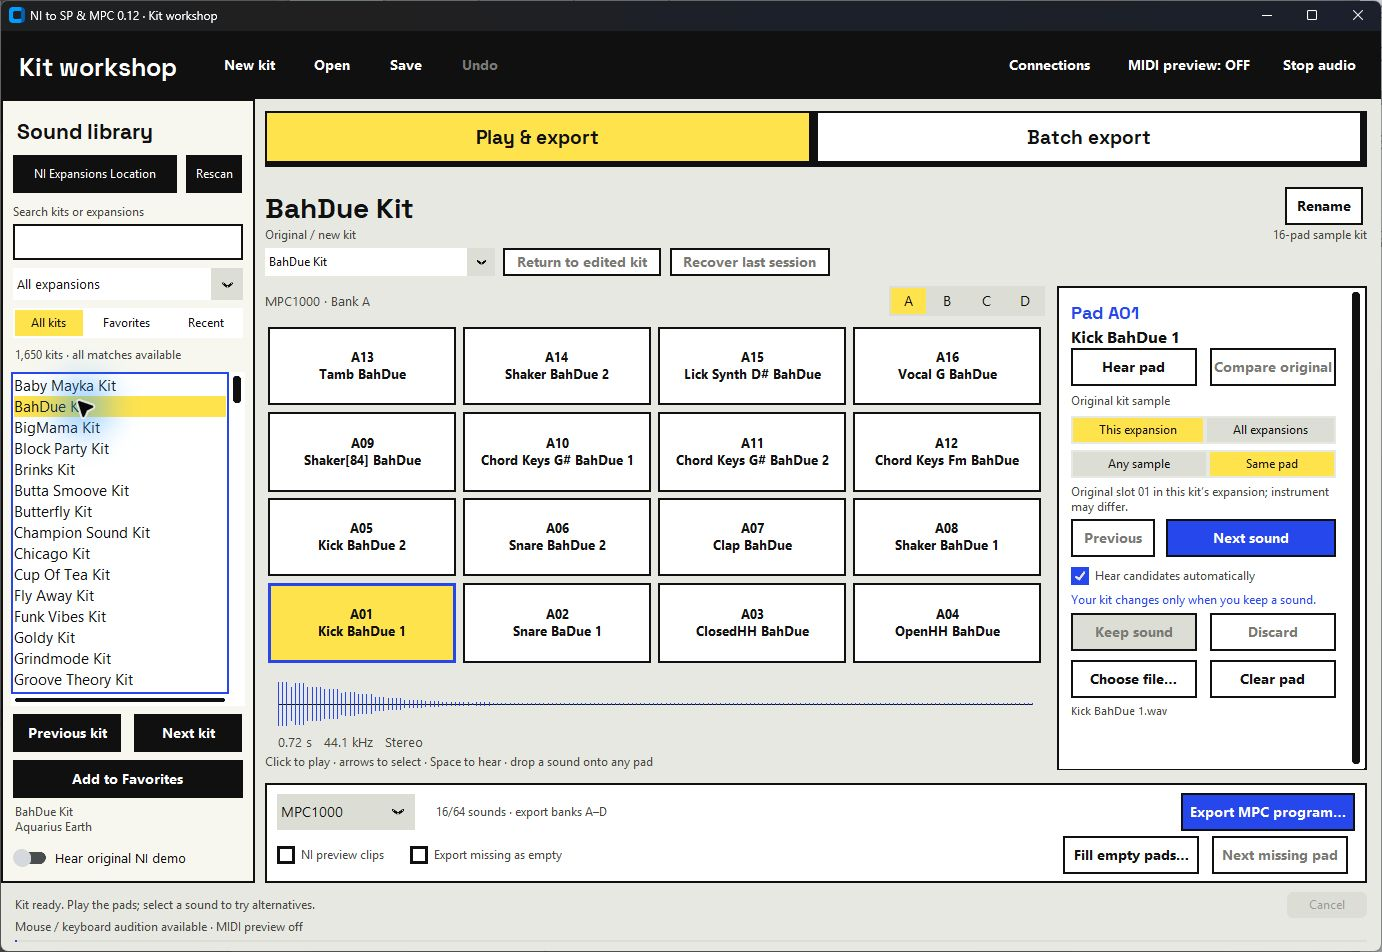
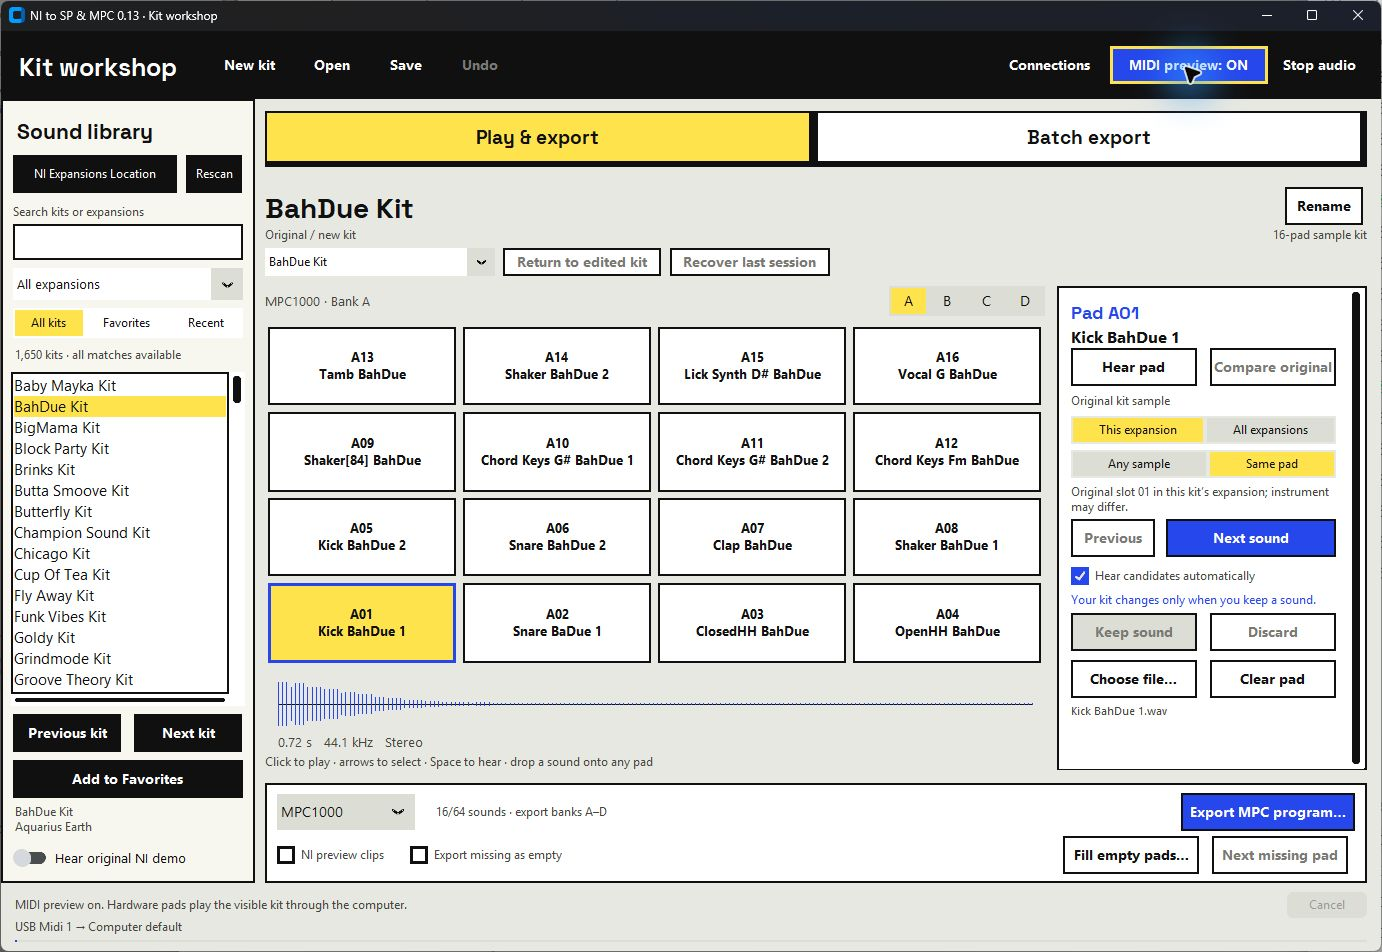
Support MPC MIDI-track pad preview with a separate chromatic preset

Changed region(s): [[0.0, 0.9443, 0.28, 1.0], [0.7779, 0.0305, 0.9334, 0.1218], [0.0311, 0.3655, 0.0933, 0.4569]]

diff --git a/tests/test_workbench.py b/tests/test_workbench.py
@@ -93,24 +93,26 @@ class WorkbenchTests(unittest.TestCase):
                 self.assertGreaterEqual(action.winfo_width(), 150)
 
     def test_connections_dialog_retains_the_mpc_mapping_and_channel_choices(self):
-        with patch('ni_to_sp.converter_ui.simple_audio_outputs', return_value=[]), \
-             patch('ni_to_sp.converter_ui.list_input_ports', return_value=['MPC interface']):
-            self.app.audio_settings()
-            wait(self.app)
-        window = next(w for w in self.app.winfo_children() if isinstance(w, ctk.CTkToplevel))
-        def descendants(widget):
-            for child in widget.winfo_children():
-                yield child
-                yield from descendants(child)
-        choices = [w for w in descendants(window) if isinstance(w, ctk.CTkOptionMenu)]
-        self.assertEqual(len(choices), 4)
-        choices[1].set('MPC interface')
-        choices[2].set('MPC1000 / JJOS3 · program pads')
-        choices[3].set('16')
-        save = next(w for w in descendants(window) if isinstance(w, ctk.CTkButton) and w.cget('text') == 'Save connections')
-        self.app.update()
-        self.assertLessEqual(save.winfo_rooty() + save.winfo_height(), window.winfo_rooty() + window.winfo_height())
-        save.invoke()
-        self.assertEqual(self.app.connection_settings['profile'], 'mpc1000')
-        self.assertEqual(self.app.connection_settings['channel'], 16)
-        self.assertEqual(self.app.connection_settings['midiInputName'], 'MPC interface')
+        for label, profile in [('MPC1000 / JJOS3 · program pads', 'mpc1000'),
+                               ('MPC1000 / JJOS3 · MIDI track', 'mpc_midi')]:
+            with patch('ni_to_sp.converter_ui.simple_audio_outputs', return_value=[]), \
+                 patch('ni_to_sp.converter_ui.list_input_ports', return_value=['MPC interface']):
+                self.app.audio_settings()
+                wait(self.app)
+            window = next(w for w in self.app.winfo_children() if isinstance(w, ctk.CTkToplevel))
+            def descendants(widget):
+                for child in widget.winfo_children():
+                    yield child
+                    yield from descendants(child)
+            choices = [w for w in descendants(window) if isinstance(w, ctk.CTkOptionMenu)]
+            self.assertEqual(len(choices), 4)
+            choices[1].set('MPC interface')
+            choices[2].set(label)
+            choices[3].set('16')
+            save = next(w for w in descendants(window) if isinstance(w, ctk.CTkButton) and w.cget('text') == 'Save connections')
+            self.app.update()
+            self.assertLessEqual(save.winfo_rooty() + save.winfo_height(), window.winfo_rooty() + window.winfo_height())
+            save.invoke()
+            self.assertEqual(self.app.connection_settings['profile'], profile)
+            self.assertEqual(self.app.connection_settings['channel'], 16)
+            self.assertEqual(self.app.connection_settings['midiInputName'], 'MPC interface')

diff --git a/ni_to_sp/converter_ui.py b/ni_to_sp/converter_ui.py
@@ -16,6 +16,7 @@ from .audio import simple_audio_outputs, audio_output_label
 from .mpc1000 import export_program
 
 PROFILE_LABELS = {'SP-404 Mode A': 'sp404_a', 'SP-404 Mode B': 'sp404_b',
+    'MPC1000 / JJOS3 · MIDI track': 'mpc_midi',
     'MPC1000 / JJOS3 · program pads': 'mpc1000',
     'MPC / controller · notes 36–51': 'linear', 'Custom · learned pads only': 'custom'}
 
@@ -329,7 +330,7 @@ class LegacyApp(BrowserApp):
         elif event.get('type') == 'unmapped':
             self.set_status(f"MIDI channel {event['channel']}, note {event['note']} received. " +
                 ('Load the MPC program note map in Connections, or use MIDI Learn.'
-                 if self.connection_settings.get('profile') == 'mpc1000'
+                 if self.connection_settings.get('profile') in {'mpc1000', 'mpc_midi'}
                  else 'For an MPC, choose MPC1000 / JJOS3 in Connections.'))
 
     def audio_settings(self):
@@ -401,11 +402,14 @@ class LegacyApp(BrowserApp):
             reset.pack(side='left', padx=10)
             def show_note_map(*_):
                 mpc = PROFILE_LABELS[profile.get()] == 'mpc1000'
-                note_label.configure(text=f'Pad notes: {pending_name}' if mpc else 'MPC program mapping is available with the MPC1000 profile.', text_color=T.MUTED)
+                midi_track = PROFILE_LABELS[profile.get()] == 'mpc_midi'
+                note_label.configure(text=f'Pad notes: {pending_name}' if mpc else
+                    'Pad notes: MIDI track · 36–99 across banks A–D' if midi_track else
+                    'MPC program mapping is available with the MPC1000 profile.', text_color=T.MUTED)
                 reset.configure(state='normal' if mpc else 'disabled')
             profile.trace_add('write', show_note_map)
             show_note_map()
-            T.label(form, 'SP: USB with PAD Note Out enabled.\nMPC: MIDI OUT → interface IN. All four hardware banks play the visible kit bank.\nUse a MIDI track with its output assigned. JJ mpc-ctl button input is a separate function.',
+            T.label(form, 'SP: USB with PAD Note Out enabled.\nMPC: MIDI OUT → interface IN. Set the track output to 1A for MIDI OUT A.\nChoose MIDI track for chromatic notes, or program pads for a drum program map.\nAll four hardware banks play the visible kit bank.',
                 13, T.MUTED, wraplength=600, justify='left').pack(anchor='w', padx=24, pady=(2, 12))
             def save():
                 self.disable_live_preview(quiet=True)

diff --git a/ni_to_sp/live_midi.py b/ni_to_sp/live_midi.py
@@ -30,7 +30,8 @@ DEFAULT_SETTINGS = {
     "cliPath": "",
     "port": "",
 }
-PROFILES = frozenset({"sp404_a", "sp404_b", "linear", "custom", "mpc1000"})
+PROFILES = frozenset({"sp404_a", "sp404_b", "linear", "custom", "mpc1000", "mpc_midi"})
+MPC_MIDI_NOTES = tuple(range(36, 100))
 MPC_A_NOTES = (37, 36, 42, 82, 40, 38, 46, 44, 48, 47, 45, 43, 49, 55, 51, 53)
 MPC_PAD_NOTES = MPC_A_NOTES + (
     54, 69, 81, 80, 65, 66, 76, 77, 56, 62, 63, 64, 73, 74, 71, 39,
@@ -362,9 +363,11 @@ class MIDIController:
                 else:
                     pad = self._mapping.get(f"{channel}:{note}", self._mapping.get(f"*:{note}"))
                     if pad is None and self.profile != "custom":
-                        default_pad = (self._mpc_notes.index(note - self.note_offset) % 16
-                            if self.profile == "mpc1000" and note - self.note_offset in self._mpc_notes
-                            else -1 if self.profile == "mpc1000" else note - 36 - self.note_offset)
+                        if self.profile in {'mpc1000', 'mpc_midi'}:
+                            notes = MPC_MIDI_NOTES if self.profile == 'mpc_midi' else self._mpc_notes
+                            default_pad = notes.index(note - self.note_offset) % 16 if note - self.note_offset in notes else -1
+                        else:
+                            default_pad = note - 36 - self.note_offset
                         if 0 <= default_pad <= 15:
                             pad = default_pad
                     event = {"type": "note" if pad is not None else "unmapped", "pad": pad,

diff --git a/tests/test_mpc_input.py b/tests/test_mpc_input.py
@@ -9,6 +9,25 @@ from test_live_midi import message
 
 
 class MPCInputTests(unittest.TestCase):
+    def test_midi_track_chromatic_banks_and_observed_bank_start_notes(self):
+        hits = []
+        controller = MIDIController('fixture', lambda pad, velocity: hits.append((pad, velocity)),
+                                    profile='mpc_midi')
+        controller._active = True
+        for note in (36, 52, 84):
+            controller._receive(message(note=note, velocity=127), controller._generation)
+        self.assertEqual(hits, [(0, 127)] * 3)
+        for bank in range(4):
+            controller.set_mpc_bank(bank)
+            hits.clear()
+            for note in range(36, 100):
+                controller._receive(message(note=note, velocity=note), controller._generation)
+            self.assertEqual(hits, [((note-36) % 16, note) for note in range(36, 100)])
+        for note in (35, 100):
+            controller._receive(message(note=note), controller._generation)
+        controller._receive(message(note=36, velocity=0), controller._generation)
+        self.assertEqual(len(hits), 64)
+
     def controller(self, **kwargs):
         self.hits = []
         controller = MIDIController('fixture', lambda i, v: self.hits.append((i, v)),

diff --git a/ni_to_sp/live_controls.py b/ni_to_sp/live_controls.py
@@ -191,7 +191,7 @@ class LivePreviewMixin:
                 if not audio_only and input_name and input_name not in inputs:
                     raise ValueError("The saved MIDI input is unavailable. Reconnect it or choose another input in Settings.")
                 if not audio_only and not input_name:
-                    if settings.get('profile') == 'mpc1000':
+                    if settings.get('profile') in {'mpc1000', 'mpc_midi'}:
                         candidates = [name for name in inputs if 'mpc' in name.casefold()]
                         if not candidates:
                             candidates = [name for name in inputs if 'usb midi' in name.casefold()]

diff --git a/ni_to_sp/studio_workflow.py b/ni_to_sp/studio_workflow.py
@@ -44,7 +44,7 @@ class StudioWorkflow:
         self._saved_drafts = {key: value for key, value in names.items() if isinstance(key, str) and isinstance(value, str)} if isinstance(names, dict) else {}
         self._recover_id = self._studio_state.get('current')
         super().__init__()
-        self.title('NI to SP & MPC 0.12 · Kit workshop')
+        self.title('NI to SP & MPC 0.13 · Kit workshop')
         if not self._recover_id and (self.data_dir / 'last-edited-kit.json').is_file():
             try:
                 previous = open_kit(self.data_dir / 'last-edited-kit.json')

diff --git a/ni_to_sp/__init__.py b/ni_to_sp/__init__.py
@@ -1,2 +1,2 @@
 """NI to SP: capture Maschine kits and transfer verified audio to an SP-404MKII."""
-__version__ = "0.12.0"
+__version__ = "0.13.0"

diff --git a/README.md b/README.md
@@ -1,6 +1,6 @@
-# NI to SP & MPC 0.12 — four-bank kit workshop
+# NI to SP & MPC 0.13 — four-bank kit workshop
 
-[Download the latest Windows package](https://github.com/diamond-one/NI-Expansion-to-SP404MK2-and-MPC1000-2500/releases/latest), extract it, and open NI-to-SP-0.12.exe. Python and Maschine do not need to be running. Build an MPC1000 program with banks A–D, audition sounds and export it, or send the current 16-pad bank to the SP-404MKII. This is a sample converter; no recording is required.
+[Download the latest Windows package](https://github.com/diamond-one/NI-Expansion-to-SP404MK2-and-MPC1000-2500/releases/latest), extract it, and open NI-to-SP-0.13.exe. Python and Maschine do not need to be running. Build an MPC1000 program with banks A–D, audition sounds and export it, or send the current 16-pad bank to the SP-404MKII. This is a sample converter; no recording is required.
 
 ![Kit workshop showing a loaded NI kit, MPC banks A–D, pad audition and replacement controls](docs/screenshots/main-workspace.png)
 
@@ -156,16 +156,16 @@ python -m pip install -r requirements.txt
 python run.py
 ```
 
-Build the standalone Windows executable with `./build.ps1`; the result is in `dist`. Run regression tests with `python -m unittest discover -s tests -v`. Tests create their own temporary audio; they do not import samples to physical hardware. For the generated-fixture packaged runtime check, use `NI-to-SP-0.12.exe --self-check report.json`.
+Build the standalone Windows executable with `./build.ps1`; the result is in `dist`. Run regression tests with `python -m unittest discover -s tests -v`. Tests create their own temporary audio; they do not import samples to physical hardware. For the generated-fixture packaged runtime check, use `NI-to-SP-0.13.exe --self-check report.json`.
 
 `tools/sp404.exe` is the bundled SparkyMK2 USB helper. Its matching source is in [the matching helper source release asset](https://github.com/diamond-one/NI-Expansion-to-SP404MK2-and-MPC1000-2500/releases/download/v0.11.0/SparkyMK2-source.zip); license notices are in `licenses`. The app font is loaded privately for the process. No NI expansion content, personal settings, scan databases or audio files are stored in this repository.
 
 ### MPC controller setup
 
 1. Connect MPC MIDI OUT A or B to the USB MIDI interface IN connected to this computer.
-2. On the MPC main screen, select a MIDI track and assign its output port/channel to that cable. A stopped sequencer is sufficient for pad audition.
-3. In Connections, select MPC1000 / JJOS3 · program pads and the interface input (for example USB Midi 1). Use channel Any initially. Auto detect can use one unambiguous MPC or USB MIDI input; it never guesses between several candidates.
+2. On the MPC main screen, select a MIDI track and assign its output port/channel to that cable (for example 1A for channel 1 on MIDI OUT A). OFF sends no pad notes to that port. A stopped sequencer is sufficient for pad audition.
+3. In Connections, select MPC1000 / JJOS3 · MIDI track and the interface input (for example USB Midi 1). Use channel Any initially. Auto detect can use one unambiguous MPC or USB MIDI input; it never guesses between several candidates.
 4. Select a kit, turn MIDI preview on, and tap pads. Every MPC hardware bank plays the visible software bank. Use the app's A–D controls to choose another bank for editing/export. Velocity is preserved.
-5. For a custom note layout, load the PGM currently assigned on the MPC in Connections, then save. This reads pad-note metadata only. MIDI Learn remains available when that program format is unsupported.
+5. MIDI track uses chromatic notes 36–99 across A–D (bank starts 36, 52, 68 and 84). For a drum program, choose MPC1000 / JJOS3 · program pads instead. For a custom program note layout, load the PGM currently assigned on the MPC in Connections, then save. This reads pad-note metadata only. MIDI Learn remains available when that program format is unsupported.
 
 JJ's `mpc-ctl` preset assigns **incoming** notes/CCs so a computer can operate the MPC. Those assignments are not a map of the physical pads' outgoing notes. This app opens MIDI inputs only; it does not send JJ bank/transport commands back to the hardware. See [JJ's controller documentation](https://www7a.biglobe.ne.jp/~mpc1000/mpc-ctl/index.htm) and [button input assignments](https://www7a.biglobe.ne.jp/~mpc1000/128xl/button_light.htm).

diff --git a/VALIDATION.md b/VALIDATION.md
@@ -1,13 +1,15 @@
-# Validation — Kit workshop 0.12
+# Validation — Kit workshop 0.13
 
 Verified 17 October 2026.
 
-- Full regression suite: 139 tests passed. Fixtures generate temporary audio and mock device transport; no physical transfer is performed.
+- Full regression suite: 140 tests passed. Fixtures generate temporary audio and mock device transport; no physical transfer is performed.
 - Packaged runtime check: 13 checks passed. Bundled fonts, MIDI input backend, sample decoding, MPC program output, sample drop and workspace construction were checked.
 - New input tests exercise all 64 MPC pad notes with all four selected software banks, velocity/channel filtering, learned overrides, custom PGM map reading and atomic preference validation. Notes 89–92 remain bank D pads rather than being mistaken for JJ remote bank commands.
 - Twelve actual local MPC1000 programs were inspected read-only. All used the standard 64-pad program map. User programs, samples and setup files were not modified or included in the release.
 - Native review of the packaged app covered a loaded 16-pad kit and the Connections dialog. The main-workspace capture is in docs/screenshots/main-workspace.png and embedded in the README. It contains no personal filesystem paths or connection settings.
-- The read-only USB Midi 1 listener received no note/control/program messages during the initial pad checks. Physical MPC pad audition remains unverified. The stem exporter's bank-LED test sends commands to the MPC; that does not verify the return route required for pad preview.
+- With the MPC track output changed from OFF to 1A, the read-only USB Midi 1 listener received 11 note-on hits and 11 releases on channel 1. The requested bank-start taps produced notes 36, 52 and 84, consistent with the MIDI-track chromatic layout rather than the drum-program table. Replaying those actual messages through the new MIDI-track profile routed every hit to visible pad 1 and ignored releases.
+- New regression coverage checks every chromatic note 36–99 with all four software banks, range boundaries and release suppression. The Connections test saves both MPC profiles. The original program-map tests remain in place. Exported PGM note tables are unchanged.
+- The packaged app opened USB Midi 1 and the default audio output with MIDI preview ON and a real NI kit loaded. Audible output and physical positions await the user's listening check.
 - The vendor-source folder and two unused UI modules were removed. Matching SparkyMK2 source remains available as a release asset and is included in the Windows package under third-party-source. Runtime helper and license notices remain present.
 
 Existing SP destination protections remain covered by the full suite: explicit device selection for multiple SPs, no guessed bank when selection is unknown, opt-in replacement, required recovery backups, and device/destination rechecks before writes. Backups require manual restoration; cancellation cannot undo completed writes.

diff --git a/DESIGN.md b/DESIGN.md
@@ -1,4 +1,4 @@
-# Kit workshop 0.12 design
+# Kit workshop 0.13 design
 
 Native Windows / Python CustomTkinter. Operate mode. The user explicitly selected Neo-Brutalism; this replaces the former charcoal/gold world.
 
@@ -33,3 +33,5 @@ The transfer window uses the same paper/ink/yellow/cobalt world and bundled typo
 Opening the window reads the device; it never writes audio. One SP needs no USB selection. Multiple SPs require an explicit choice. Current bank comes from a validated status response (project/bank/pad), not note guesses or the software's MPC bank. Unknown bank requires user selection. Manual bank overrides survive refresh; changing the bank resets replacement consent. Automatic backups remain mandatory for replacement. The final named Send action accepts the reviewed immutable plan; backend identity, occupied-pad snapshot and bank-protection checks remain enforced.
 
 MPC pad input accepts the 64 program-note assignments across hardware banks A–D and folds each into its physical position in the visible bank. Software bank selection remains an editing choice; hardware-bank mismatch never filters otherwise valid pad hits. Custom program note maps are imported as metadata, validated before replacing preferences, and remain independent of exported PGM mappings. JJ controller input assignments are not used as outgoing-pad mappings.
+
+MPC input offers separate MIDI track (chromatic notes 36–99) and drum program profiles. Both fold hardware banks onto the visible sixteen pads. Program imports affect only the drum program profile; choosing MIDI track preserves imported maps for later use. Profile selection is explicit because their note ranges overlap.
